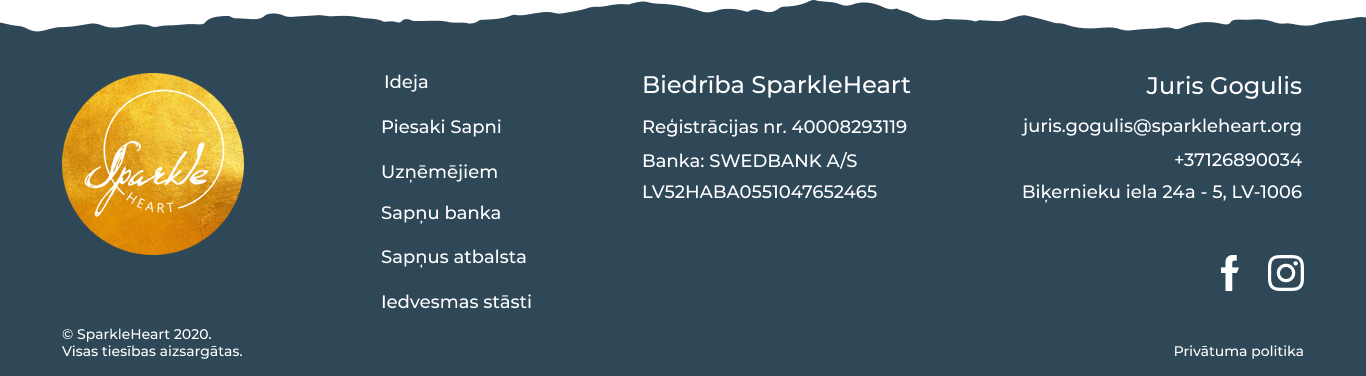
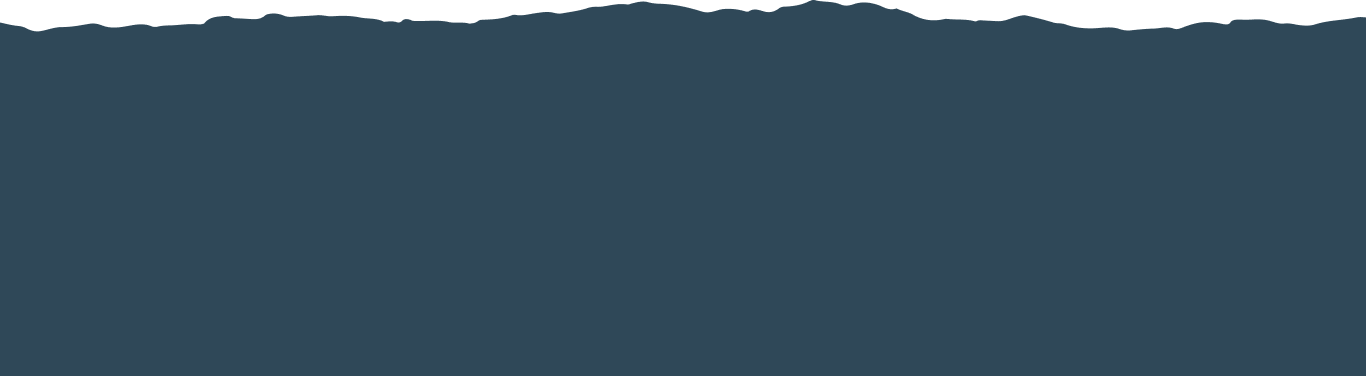
added footer content

diff --git a/index.html b/index.html
@@ -120,7 +120,51 @@
         </div> 
     </div>
 </div>
-<footer class="footer"></footer>
+<footer class="footer">
+<div class="inner_footer">
+<div class="logo">
+<img src="assets/img/GoldenV2Logo 3.png" alt="SparkleHeart" class="footer_logo" alt="gold_logo">
+<div class="tiesibas">
+    © SparkleHeart 2020. Visas tiesības aizsargātas.
+</div><!--close "tiesibas"-->
+</div><!--close "logo"-->
+<div class="inner_menu"> 
+<div class="footer_item"footer>
+    <a href="#" class="footer_link">Ideja</a>
+</div>
+<div class="footer_item">
+    <a href="#" class="footer_link">Piesaki Sapni</a>
+</div>
+<div class="footer_item">
+    <a href="#" class="footer_link">Uzņēmējiem</a>
+</div>
+<div class="footer_item">
+    <a href="#" class="footer_link">Sapņu banka</a>
+</div>
+<div class="footer_item">
+    <a href="#" class="footer_link">Sapņus atbalsta</a>
+</div>
+<div class="footer_item">
+    <a href="#" class="footer_link">99 Iedvesmas stāsti</a>
+</div>
+</div><!--close "inner-menu"-->  
+<div class="biedriba">
+    Biedrība SparkleHeart<br>
+    Reģistrācijas nr. 40008293119<br>
+    Banka: SWEDBANK A/S<br>
+    LV52HABA0551047652465
+</div>
+<div class="kontakti">
+    Juris Gogulis<br>
+juris.gogulis@sparkleheart.org<br>
+    +37126890034<br>
+    Biķernieku iela 24a - 5, LV-1006<br>
+    <img src="assets/img/facebook.png">
+    <img src="assets/img/instagram.png"><br>
+    Privātuma politika
+</div>
+</div><!--close "inner-footer"-->  
+</footer>
 </div><!--close "outer-container"-->   
 </body>
 </html>

diff --git a/assets/css/style.css b/assets/css/style.css
@@ -409,3 +409,30 @@ footer{
     background: url(../img/footer.png) no-repeat;
     background-size: cover;
 }
+.inner_footer{
+    display:grid;
+    grid-template-rows: 376px;
+    grid-template-columns: 25% 25% 25% 25%;
+    gap:5px;
+}
+.logo{
+    grid-area: 1/1/2/2;
+    display: flex;
+    
+}
+.footer_logo{
+    margin-bottom: 70px;
+    margin-top: 71.43px;
+}
+.tiesibas{
+    margin-bottom: 13px;
+}
+.inner_menu{
+    grid-area: 1/2/2/3;
+}
+.biedriba{
+    grid-area: 1/3/2/4;
+}
+.kontakti{
+    grid-area: 1/4/2/5;
+}
